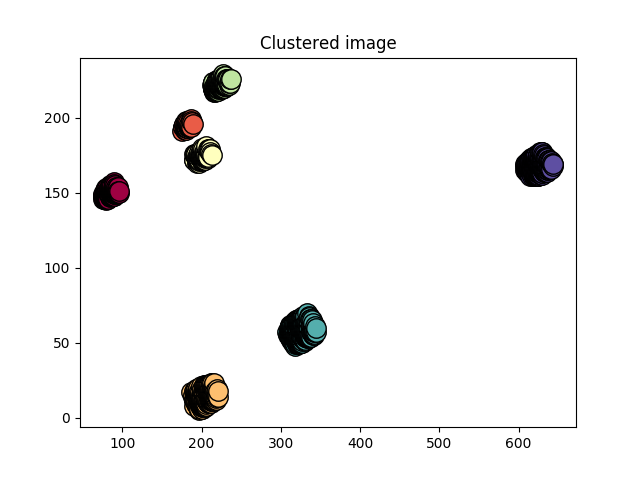
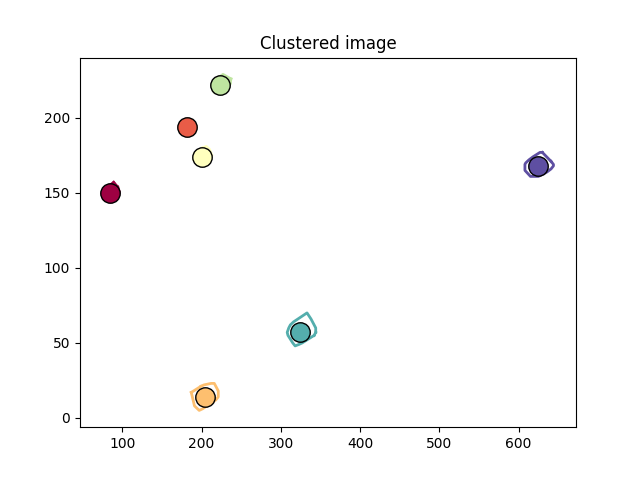
Wrote function to generate and plot masks for features

diff --git a/utilities/plots.py b/utilities/plots.py
@@ -1,5 +1,5 @@
 from matplotlib.pyplot import figure, imshow, show, title, plot, cm, scatter, savefig
-from numpy import linspace
+from numpy import linspace, array
 
 
 # Plots image (mainly for debugging
@@ -19,17 +19,32 @@ def plot_image(features, _title='Image plot', blocking=False):
 
 
 # Function to plot list of clusters
-def plot_clusters(feature_sets, labels, _title='Clustered image', blocking=True, save=True):
+def plot_clusters(feature_sets, labels, _title='Clustered image', blocking=True, save=True, centers=None, masks=None):
     figure(_title)                                                              # Create new figure
     colours = [cm.Spectral(each) for each in
                linspace(0, 1, len(feature_sets))]                               # Generate set of colours
 
-    for label, colour, feature in zip(labels, colours, feature_sets):           # For each cluster
+    for i, (label, colour, feature) in enumerate(zip(labels, colours, feature_sets)):           # For each cluster
         if label == -1:                                                         # If noise plot as black
             colour = [0, 0, 0, 1]
 
-        plot(feature[:, 0], feature[:, 1], 'o', markerfacecolor=tuple(colour),
-             markeredgecolor='k', markersize=14)                                # Plot cluster
+        if masks is None:
+            plot(feature[:, 0], feature[:, 1], 'o', markerfacecolor=tuple(colour),
+                 markeredgecolor='k', markersize=14)                                # Plot cluster
+
+        if masks is not None:
+            plot(feature[masks[i].vertices, 0], feature[masks[i].vertices, 1],
+                 color=tuple(colour), linewidth=2)                                  # Plot most of hull
+            last = len(masks[i].vertices) - 1                                       # Calculate length of hull points
+            ret_path = array([feature[masks[i].vertices[last]],
+                              feature[masks[i].vertices[0]]])                       # Calculate last edge of hull
+
+            plot(ret_path[:, 0], ret_path[:, 1], color=tuple(colour), linewidth=2)  # Plot last edge of hull
+
+        if centers is not None:
+            plot(centers[i, 0], centers[i, 1], 'o', markerfacecolor=tuple(colour),
+                 markeredgecolor='k', markersize=14)                                # Plot centers of mass
+
     title(_title)                                                               # Add title
     if save:                                                                    # If saving enabled, save figure
         savefig('results/cluster_plot.png')

diff --git a/cluster.py b/cluster.py
@@ -1,5 +1,6 @@
-from numpy import zeros_like
+from numpy import zeros_like, zeros, mean
 from sklearn.cluster import DBSCAN
+from scipy.spatial import ConvexHull
 
 
 def cluster_points(features):
@@ -14,3 +15,15 @@ def cluster_points(features):
         cluster_sets.append(features[labels == label])  # Add points within to cluster
 
     return cluster_sets, labels
+
+
+# Function to calculate cluster masks
+def make_mask(clusters):
+    centers = zeros(len(clusters), dtype=(int, 2))      # Calculate centers of mass
+    masks = []                                          # Initialize array of masks
+
+    for i, cluster in enumerate(clusters):              # For each cluster
+        centers[i] = mean(cluster, axis=0)              # Calculate center
+        masks.append(ConvexHull(cluster))               # Calculate mask
+
+    return centers, masks

diff --git a/execute.py b/execute.py
@@ -1,7 +1,7 @@
 from utilities.file_utilities import import_image
 from process import threshold_image
 from numpy import nonzero, transpose, flip
-from cluster import cluster_points
+from cluster import cluster_points, make_mask
 from utilities.plots import plot_clusters
 from utilities.utilities import count_clusters
 # Script to import test image then threshold and cluster points
@@ -17,5 +17,9 @@ features = transpose(nonzero(transpose(flip(flip(thresh_image, axis=1)))))     #
 cluster_sets, labels = cluster_points(features)
 print('Number of clusters: ', count_clusters(labels))
 
+# Make masks
+centers, masks = make_mask(cluster_sets)
+
 # Plot clusters
-plot_clusters(cluster_sets, labels)
+plot_clusters(cluster_sets, labels, centers=centers, masks=masks)
+
